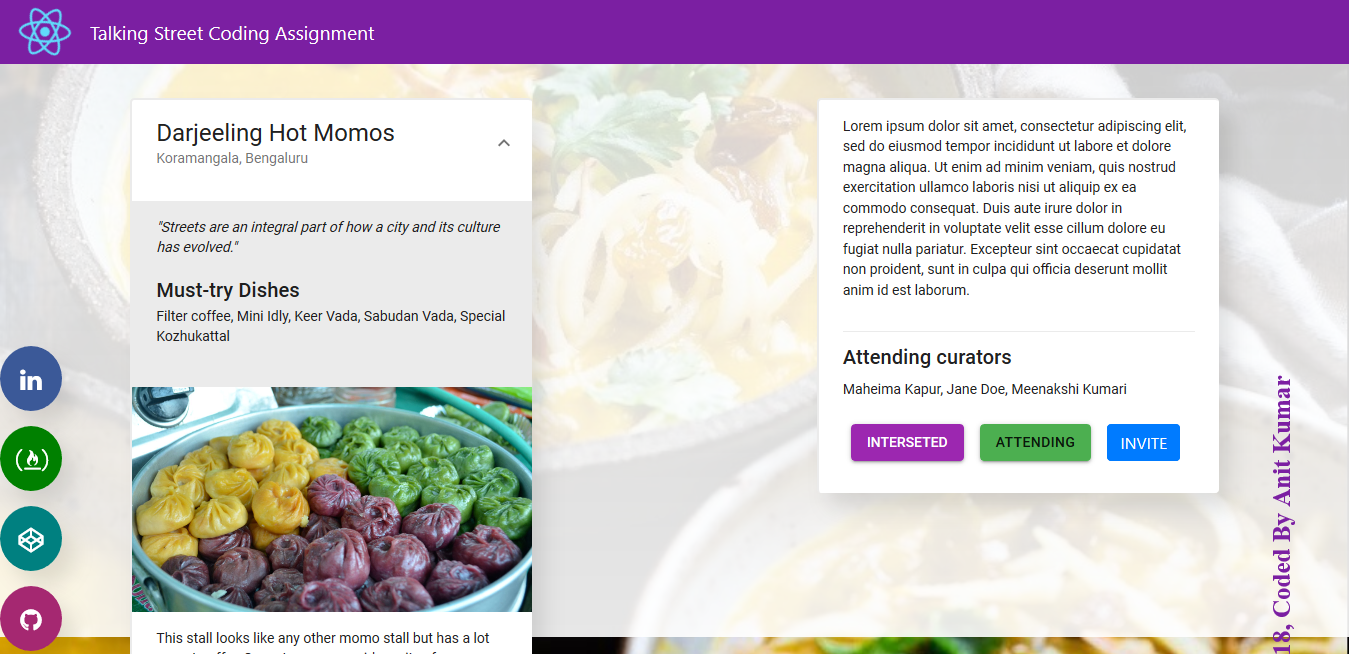
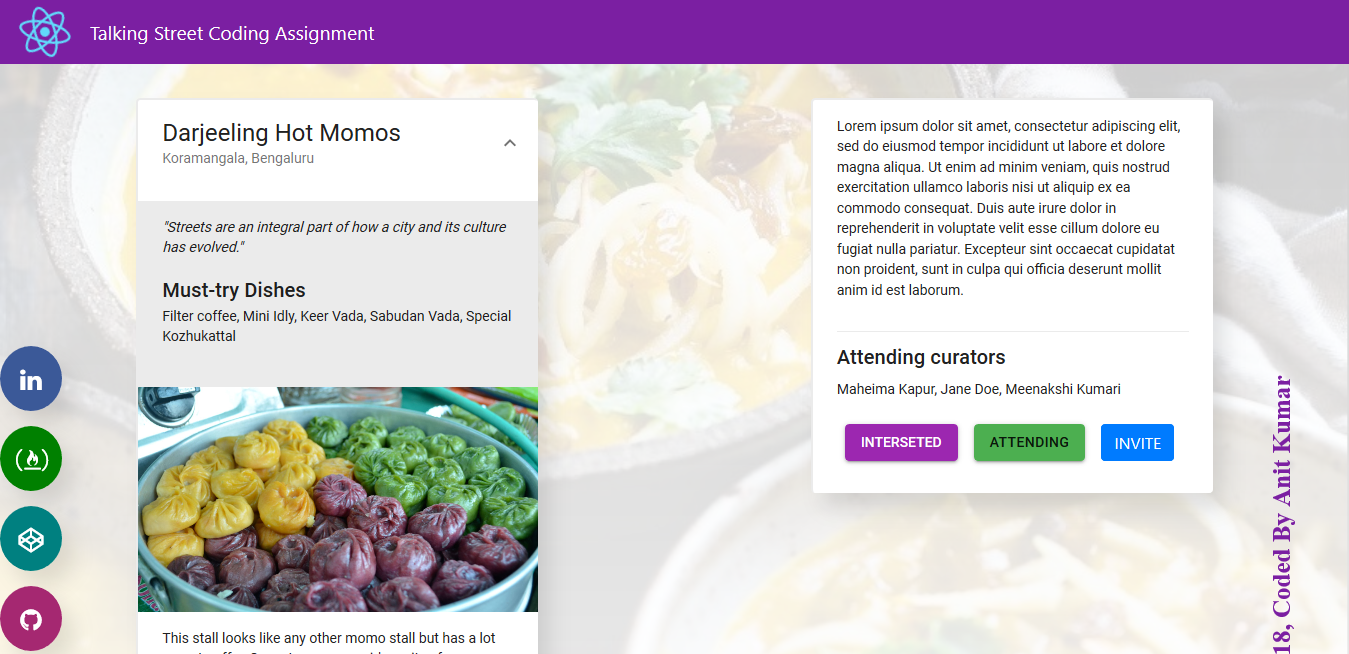
fully completed

diff --git a/src/App.js b/src/App.js
@@ -14,7 +14,7 @@ class App extends Component {
         <Cards/>
         {/* <Footer/> */}
         <h5 className="headerText"> &copy; 2018, Coded By Anit Kumar</h5>
-          <div class="icons-bar">
+          <div className="icons-bar">
               <a href="https://www.linkedin.com/in/anit-kumar" target="_blank" rel="noopener noreferrer" className="linkedin" id="profile-link"><i className="fa fa-linkedin"></i></a>
               <a href="https://www.freecodecamp.org/anitkumar" id="profile-link" target="_blank" rel="noopener noreferrer" className="freecodecamp"><i className="fa fa-free-code-camp"></i></a>
               <a href="https://codepen.io/Anitkumar" className="codepen" target="_blank" rel="noopener noreferrer"><i className="fa fa-codepen"></i></a>

diff --git a/src/Components/Cards/Cards.js b/src/Components/Cards/Cards.js
@@ -83,8 +83,8 @@ class Cards extends React.Component {
     }); 
     console.log(items[0]["shop-quotes"]);
     return (
-      <Grid container spacing={24}>
-        <Grid item xs={6}>
+      <Grid container spacing={20}>
+        <Grid item xs={12} lg={6} xl={6} md={6} sm={6} >
             <Card className={classes.card}>
               <CardHeader
                 title={items[0].Title}
@@ -126,7 +126,7 @@ class Cards extends React.Component {
               </CardContent>
             </Card>
         </Grid>
-      <Grid item xs={6}>
+      <Grid item xs={12} lg={6} xl={6} md={6} sm={6}>
             <Card className={classes.card}>
             <CardContent>
               <Typography component="p">

diff --git a/src/App.css b/src/App.css
@@ -6,6 +6,7 @@
   background-repeat: no-repeat;
   background-attachment: fixed;
   background-size: cover;
+  padding-bottom: 30px;
  
 }
 
